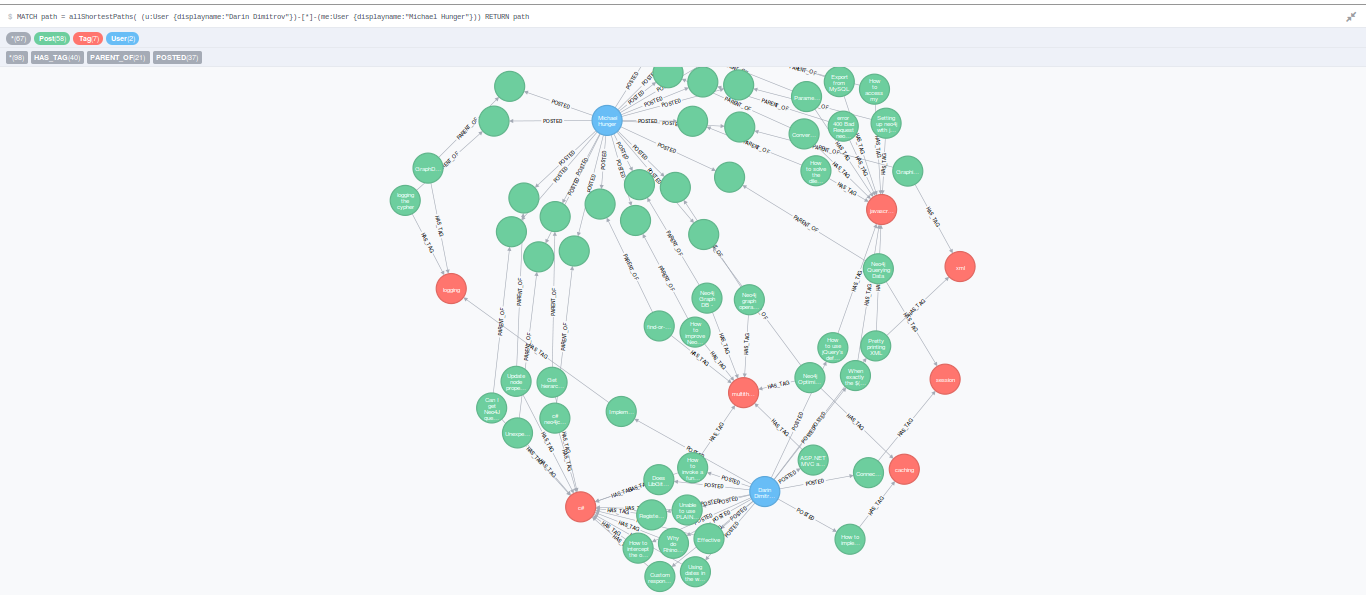
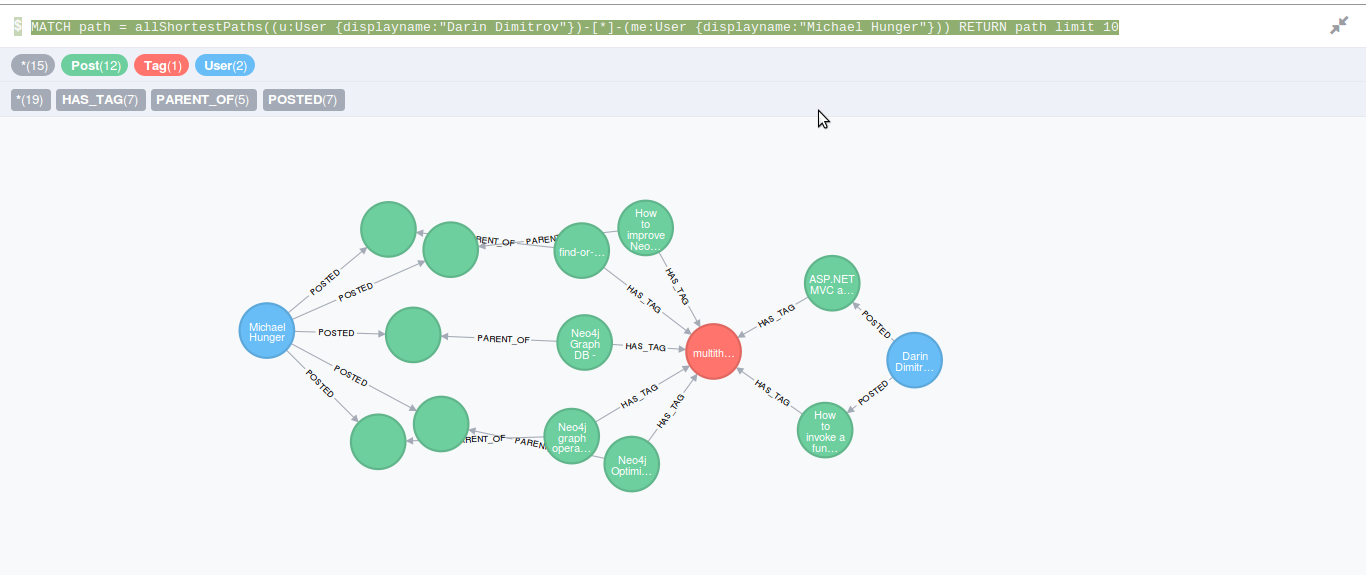
Update neo4j.md

diff --git a/neo4j.md b/neo4j.md
@@ -97,40 +97,71 @@ MATCH ()-[r:POSTED]->() RETURN r LIMIT 25
 ![neo4j](images/graph_neo4j.png)
 
 --
-Top 5 tagów użytych przez użytkownika "Jon Skeet" w odpowiedziach.
+Top 5 tagów użytych przez użytkownika "Jon Skeet" w odpowiedziach:
 
 ```
 match (u:User)-[:POSTED]->()-[:HAS_TAG]->(t:Tag) 
 where u.displayname = "Jon Skeet" 
-return t,count(*) as posts order by posts desc limit 5;
+return t.tagId,count(*) as posts order by posts desc limit 5;
 
-
-+------------------------------------------+
-| t                                | posts |
-+------------------------------------------+
-| Node[25209695]{tagId:"c#"}       | 11    |
-| Node[25209689]{tagId:".net"}     | 7     |
-| Node[25231637]{tagId:"c#-4.0"}   | 5     |
-| Node[25214219]{tagId:".net-4.0"} | 4     |
-| Node[25209745]{tagId:"asp.net"}  | 3     |
-+------------------------------------------+
-
++--------------------+
+| t.tagId    | posts |
++--------------------+
+| "c#"       | 11    |
+| ".net"     | 7     |
+| "c#-4.0"   | 5     |
+| ".net-4.0" | 4     |
+| "com"      | 3     |
++--------------------+
 5 rows
-434 ms
+93 ms
+
 
 ```
 --
-Jak połączeni są użytkownicy "Darin dimitrov" z "Michael Hunger"
+Jak połączeni są użytkownicy "Darin dimitrov" z "Michael Hunger":
 
 ```
 MATCH path = allShortestPaths(
      (u:User {displayname:"Darin Dimitrov"})-[*]-(me:User {displayname:"Michael Hunger"}))
-RETURN path
+RETURN path limit 10
 ```
 
 ![neo4j](images/polaczenie.png)
 
 --
+
+Najczęściej odpowiadajacy użytkownicy i ich aktywność w tematyce:
+
+```
+MATCH (neo:Tag {tagId:"neo4j"})<-[:HAS_TAG]-()-[:PARENT_OF]->()<-[:POSTED]-(u:User) 
+WITH neo,u, count(*) as freq order by freq desc limit 10
+
+MATCH (u)-[:POSTED]->()<-[:PARENT_OF]-(p)-[:HAS_TAG]->(other:Tag)
+WHERE NOT (p)-[:HAS_TAG]->(neo)
+WITH u,other,count(*) as freq2 order by freq2 desc 
+RETURN u.displayname,collect(distinct other.tagId)[1..5] as tags;
+
+
++--------------------------------------------------------------------------------+
+| u.displayname       | tags                                                     |
++--------------------------------------------------------------------------------+
+| "Luanne"            | ["jersey","cypher","jaxb"]                               |
+| "Wes Freeman"       | ["go","node.js","java","php"]                            |
+| "Mattias Persson"   | []                                                       |
+| "Peter Neubauer"    | ["nosql","graph","java","graph-databases"]               |
+| "Michael Hunger"    | ["nosql","spring-data-neo4j","graph-databases","cypher"] |
+| "tstorms"           | ["spring-data-neo4j","spring","jini","compare"]          |
+| "ulkas"             | ["sql","mysql","jquery","arrays"]                        |
+| "Stefan Armbruster" | ["groovy","intellij-idea","tomcat","grails-plugin"]      |
+| "Nicholas"          | ["android","eclipse","arrays","algorithm"]               |
+| "jjaderberg"        | ["jena","osx-lion","py2app","java"]                      |
++--------------------------------------------------------------------------------+
+
+10 rows
+161 ms
+
+```
 
 #Geojason
 
